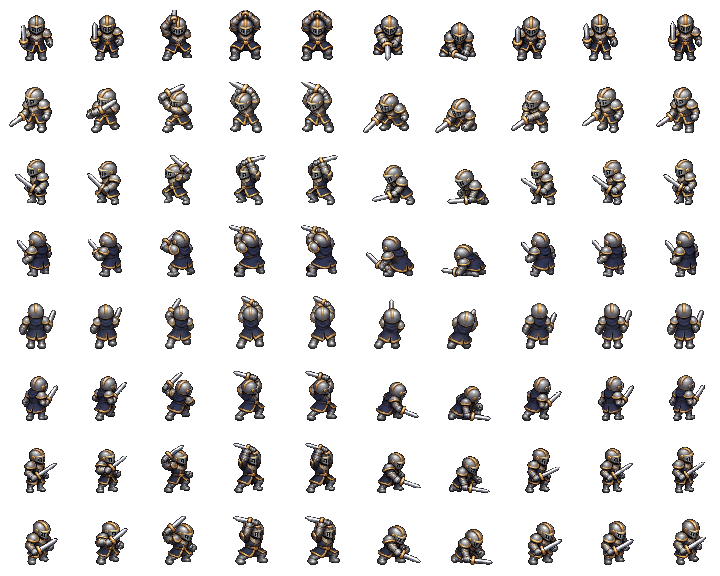
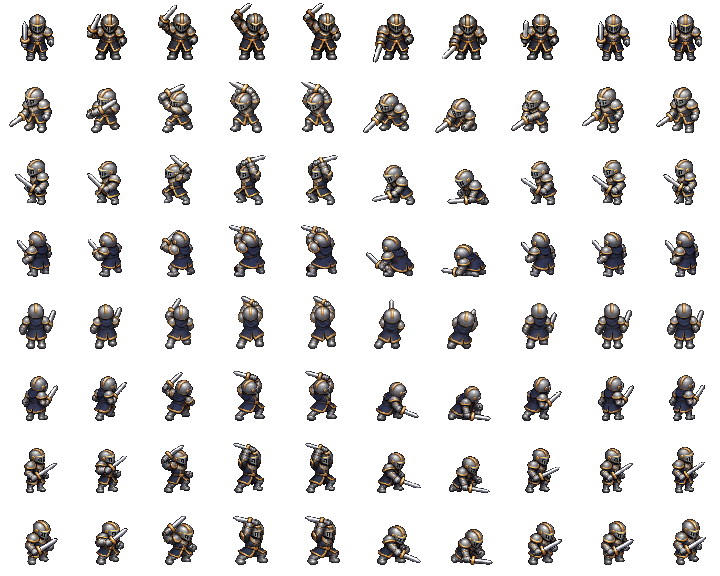
Refine south sword combo and reduce knight world scale (0.54.2)

diff --git a/tests/knight-production.test.js b/tests/knight-production.test.js
@@ -3,7 +3,7 @@ import assert from 'node:assert/strict';
 import {readFile} from 'node:fs/promises';
 import {fileURLToPath} from 'node:url';
 import {createCanvas,loadImage,Image} from '@napi-rs/canvas';
-import {KNIGHT_PRODUCTION_COUNTS,knightProductionEnabled,knightStrikePlanted,
+import {KNIGHT_PRODUCTION_COUNTS,KNIGHT_PRODUCTION_SCALE,knightProductionEnabled,knightStrikePlanted,
  knightProductionImpact} from '../src/knight-production.js';
 import {KnightFinalAtlas,knightFinalFrame} from '../src/knight-final.js';
 import {labSample,LAB_DIRECTIONS} from '../src/animation-lab.js';
@@ -85,7 +85,7 @@ test('each hit event selects the contact image and its effect touches the blade'
     assert.equal(knightFinalFrame(p,0,true).index,frame);
    });
    const tip=knightProductionImpact(p,direction,clip,new URLSearchParams());
-   const x=Math.round(tip.x/1.8+36),y=Math.round(tip.y/1.8+59);
+   const x=Math.round(tip.x/(2*KNIGHT_PRODUCTION_SCALE)+36),y=Math.round(tip.y/(2*KNIGHT_PRODUCTION_SCALE)+59);
    const data=pixels(image,frame,row);
    let nearby=false;
    for(let dy=-2;dy<=2;dy++)for(let dx=-2;dx<=2;dx++){
@@ -147,4 +147,24 @@ test('south walk alternates planted boots with a stable helmet and seamless pass
  for(const frame of [1,2,3])assert.ok(deltas[frame]>0,'left step reverses early at '+frame);
  for(const frame of [5,6,7])assert.ok(deltas[frame]<0,'right step reverses early at '+frame);
  assert.ok(deltas[2]>=5&&deltas[6]<=-5,'both legs must take a full step');
+});
+
+test('south combos return to the same ready pose and retain planted boots',async()=>{
+ const idle=await loadImage(await readFile(new URL('idle.png',folder)));
+ const ready=pixels(idle,0,0);
+ for(const clip of ['attack1','attack2','attack3']){
+  const sheet=await loadImage(await readFile(new URL(clip+'.png',folder)));
+  const count=KNIGHT_PRODUCTION_COUNTS[clip];
+  assert.deepEqual(pixels(sheet,0,0),ready,clip+' starts with a different body');
+  assert.deepEqual(pixels(sheet,count-1,0),ready,clip+' does not return to ready');
+  for(let frame=0;frame<count;frame++){
+   const data=pixels(sheet,frame,0);
+   for(const [left,right] of [[28,33],[40,46]]){
+    let sole=0;
+    for(let y=52;y<=62;y++)for(let x=left;x<right;x++)if(data[(y*72+x)*4+3]>64)sole=Math.max(sole,y);
+    assert.ok(sole>=58&&sole<=61,clip+'/'+frame+' lifts a planted boot');
+   }
+  }
+ }
+ assert.equal(KNIGHT_PRODUCTION_SCALE,.8);
 });

diff --git a/src/knight-production.js b/src/knight-production.js
@@ -1,6 +1,6 @@
 // One coherent illustrated set for the released knight, in all eight facings.
-export const KNIGHT_PRODUCTION_VERSION='0.54.1';
-export const KNIGHT_PRODUCTION_SCALE=.9;
+export const KNIGHT_PRODUCTION_VERSION='0.54.2';
+export const KNIGHT_PRODUCTION_SCALE=.8;
 export const KNIGHT_PRODUCTION_COUNTS=Object.freeze({
  idle:6,walk:8,attack1:8,attack2:8,attack3:10,recovery:6,
  special:8,dash:8,hurt:6,death:8
@@ -31,9 +31,9 @@ export function knightStrikePlanted(player){
 // Measured native sprite coordinates of each attack's blade contact.
 // Rows are S, SW, W, NW, N, NE, E, SE; world origin is the common foot pivot.
 const CONTACTS={
- attack1:[[26,58],[7,45],[5,36],[8,27],[39,6],[64,29],[63,35],[68,39]],
- attack2:[[19,41],[5,37],[5,30],[7,31],[36,8],[64,25],[63,28],[68,31]],
- attack3:[[27,59],[7,59],[14,56],[8,39],[31,11],[60,55],[59,54],[59,57]]
+ attack1:[[30,60],[7,45],[5,36],[8,27],[39,6],[64,29],[63,35],[68,39]],
+ attack2:[[12,61],[5,37],[5,30],[7,31],[36,8],[64,25],[63,28],[68,31]],
+ attack3:[[15,62],[7,59],[14,56],[8,39],[31,11],[60,55],[59,54],[59,57]]
 };
 export function knightProductionImpact(player,direction,clip,params){
  if(!knightProductionEnabled(params))return null;

diff --git a/src/knight-final.js b/src/knight-final.js
@@ -1,7 +1,7 @@
-import {knightProductionEnabled,loadKnightProductionSheets,KNIGHT_PRODUCTION_SCALE} from './knight-production.js?v=0.54.1';
-import {knightPose,KNIGHT_CLIPS} from './knight-animation.js?v=0.54.1';
+import {knightProductionEnabled,loadKnightProductionSheets,KNIGHT_PRODUCTION_SCALE} from './knight-production.js?v=0.54.2';
+import {knightPose,KNIGHT_CLIPS} from './knight-animation.js?v=0.54.2';
 import {rigFacing} from './articulated-hero.js?v=0.40.0';
-import {knightPreviewActionFrame,knightPreviewPresentationFrame} from './knight-preview-motion.js?v=0.54.1';
+import {knightPreviewActionFrame,knightPreviewPresentationFrame} from './knight-preview-motion.js?v=0.54.2';
 import {KNIGHT_REBORN_FRAME_COUNTS,createKnightRebornSheets} from './knight-reborn.js?v=0.49.0';
 import {loadKnightNorthReviewSheets,KNIGHT_NORTH_051} from './knight-north-051.js?v=0.53.1';
 import {loadKnightSideReviewSheets,KNIGHT_SIDE_053} from './knight-side-053.js?v=0.53.1';

diff --git a/index.html b/index.html
@@ -11,7 +11,7 @@
 <body>
  <canvas id="gameCanvas" aria-label="Realm Runners Spielfeld"></canvas>
  <div class="game-top">
-  <div class="identity"><span class="sigil">✦</span><span>REALM <b>RUNNERS</b><small>DUNGEON REBORN · ALPHA 0.54.1</small></span></div>
+  <div class="identity"><span class="sigil">✦</span><span>REALM <b>RUNNERS</b><small>DUNGEON REBORN · ALPHA 0.54.2</small></span></div>
   <div id="hud" class="hud hidden" aria-live="off">
    <div class="hud-stat hp-stat"><span class="stat-label">LEBEN</span><span id="hpText">100 / 100</span><div class="hp-track"><div id="hpFill"></div></div></div>
    <div class="hud-stat"><span class="stat-label">DUNGEON</span><strong id="roomText">0 / 9</strong></div>
@@ -41,6 +41,6 @@
   </div>
  </section>
  <div id="toast" class="toast hidden" role="status"></div>
- <script type="module" src="./src/main.js?v=0.54.1"></script>
+ <script type="module" src="./src/main.js?v=0.54.2"></script>
 </body>
 </html>

diff --git a/src/game.js b/src/game.js
@@ -1,9 +1,9 @@
-import {knightStrikePlanted,knightProductionImpact} from './knight-production.js?v=0.54.1';
+import {knightStrikePlanted,knightProductionImpact} from './knight-production.js?v=0.54.2';
 import {beginCompanionAttack,advanceCompanion,companionShot} from './companion-animation.js?v=0.31.0';
 import {advanceLocomotion} from './locomotion.js?v=0.53.1';
 import {heroShot,HERO_PROJECTILE_HEIGHT} from './hero-aim.js?v=0.40.0';
 import {HERO_KINDS,beginHeroAction,advanceHeroAction} from './hero-animation.js?v=0.31.0';
-import {beginKnightAction,advanceKnightAction} from './knight-animation.js?v=0.54.1';
+import {beginKnightAction,advanceKnightAction} from './knight-animation.js?v=0.54.2';
 import {knightBladeTip} from './knight-reborn.js?v=0.49.0';
 import {knightNorth051Impact} from './knight-north-051.js?v=0.53.1';
 import {knightSide053Impact} from './knight-side-053.js?v=0.53.1';

diff --git a/src/animation-lab.js b/src/animation-lab.js
@@ -1,9 +1,9 @@
-import {getKnightFinal,knightFinalFrame} from './knight-final.js?v=0.54.1';
+import {getKnightFinal,knightFinalFrame} from './knight-final.js?v=0.54.2';
 import {heroRigReady,articulatedPose,RIG_ROWS,getHeroRig} from './articulated-hero.js?v=0.40.0';
 import {HeroSpriteAtlas} from './hero-sprites.js?v=0.40.0';
-import {KnightSpriteAtlas} from './knight-sprites.js?v=0.54.1';
+import {KnightSpriteAtlas} from './knight-sprites.js?v=0.54.2';
 import {heroPose,HERO_CLIPS} from './hero-animation.js?v=0.31.0';
-import {knightPose,KNIGHT_CLIPS} from './knight-animation.js?v=0.54.1';
+import {knightPose,KNIGHT_CLIPS} from './knight-animation.js?v=0.54.2';
 import {heroShot} from './hero-aim.js?v=0.40.0';
 import {KNIGHT_VISUAL_STRIDE} from './knight-walk.js?v=0.46.0';
 import {CLASSES} from './data.js?v=0.23.0';

diff --git a/src/main.js b/src/main.js
@@ -1,10 +1,10 @@
-import {openAnimationLab,animationLabOpen} from './animation-lab.js?v=0.54.1';
+import {openAnimationLab,animationLabOpen} from './animation-lab.js?v=0.54.2';
 import {CLASSES} from './data.js?v=0.23.0';
 import {loadProgress,upgradeCost} from './progression.js?v=0.21.0';
 import {ENEMY_NAMES,totalKills,formatPlayTime} from './statistics.js?v=0.21.0';
 import {Input} from './input.js?v=0.23.0';
-import {Game} from './game.js?v=0.54.1';
-import {Renderer} from './render.js?v=0.54.1';
+import {Game} from './game.js?v=0.54.2';
+import {Renderer} from './render.js?v=0.54.2';
 import {TALENTS,RARITIES,describeStats,talentCost} from './loot.js?v=0.21.0';
 import {ITEM_SETS,RUN_POWERS,setPieces} from './buildcraft.js?v=0.21.0';
 import {installTouchGuard} from './touch-guard.js';

diff --git a/src/knight-sprites.js b/src/knight-sprites.js
@@ -1,9 +1,9 @@
-import {getKnightFinal} from './knight-final.js?v=0.54.1';
+import {getKnightFinal} from './knight-final.js?v=0.54.2';
 import {getHeroRig,previewHeroRig} from './articulated-hero.js?v=0.40.0';
 import {drawKnightAction,KNIGHT_ACTION_CLIPS} from './knight-action-sprites.js?v=0.39.0';
 import {drawKnightWalk} from './knight-walk.js?v=0.46.0';
 import {prepareWalkPivots,walkFrameAnchorY} from './grounded-walk.js?v=0.36.0';
-import {knightPose} from './knight-animation.js?v=0.54.1';
+import {knightPose} from './knight-animation.js?v=0.54.2';
 
 // The production knight uses complete-body transparent sprite sheets. Its
 // sword and legs are part of every frame; legacy art remains rollback-only.

diff --git a/src/render.js b/src/render.js
@@ -1,6 +1,6 @@
 import {CompanionSpriteAtlas,drawCompanionEffect,drawCompanionProjectile} from './companion-sprites.js?v=0.31.0';
 import {HeroSpriteAtlas,drawHeroRelease} from './hero-sprites.js?v=0.40.0';
-import {KnightSpriteAtlas,drawKnightEffect} from './knight-sprites.js?v=0.54.1';
+import {KnightSpriteAtlas,drawKnightEffect} from './knight-sprites.js?v=0.54.2';
 import {CLASSES,ENEMY_DATA,TILE,clamp} from './data.js?v=0.23.0';
 import {ROOM_W,ROOM_H,ROOM_COLS,ROOM_ROWS} from './dungeon.js?v=0.26.0';
 import {drawDungeonAtmosphere,drawBossWarnings,drawVignette} from './atmosphere.js?v=0.26.0';
